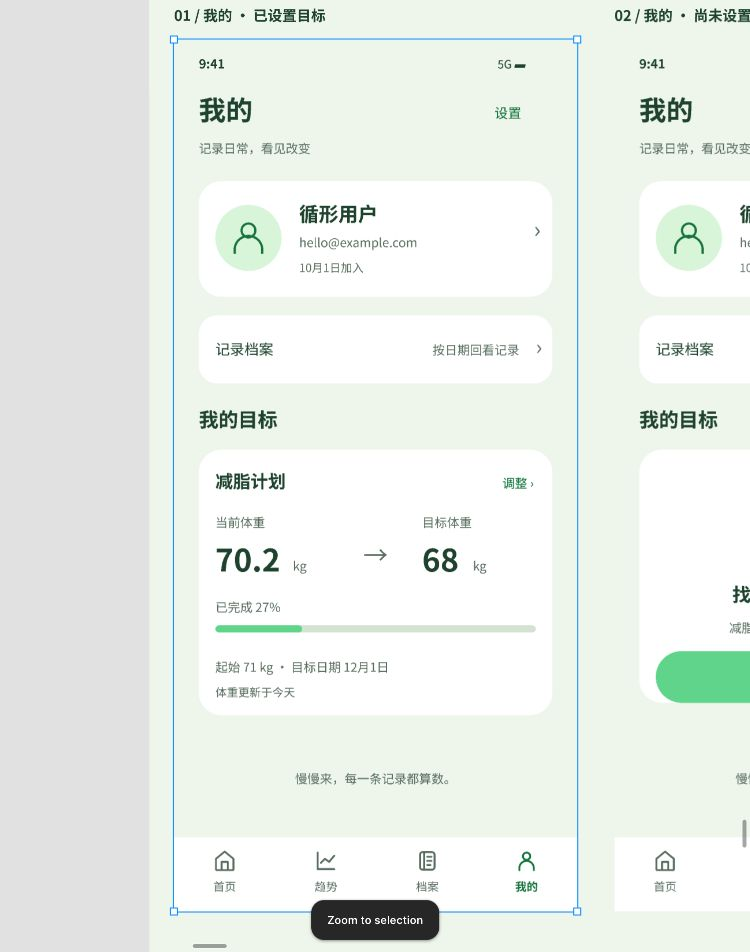
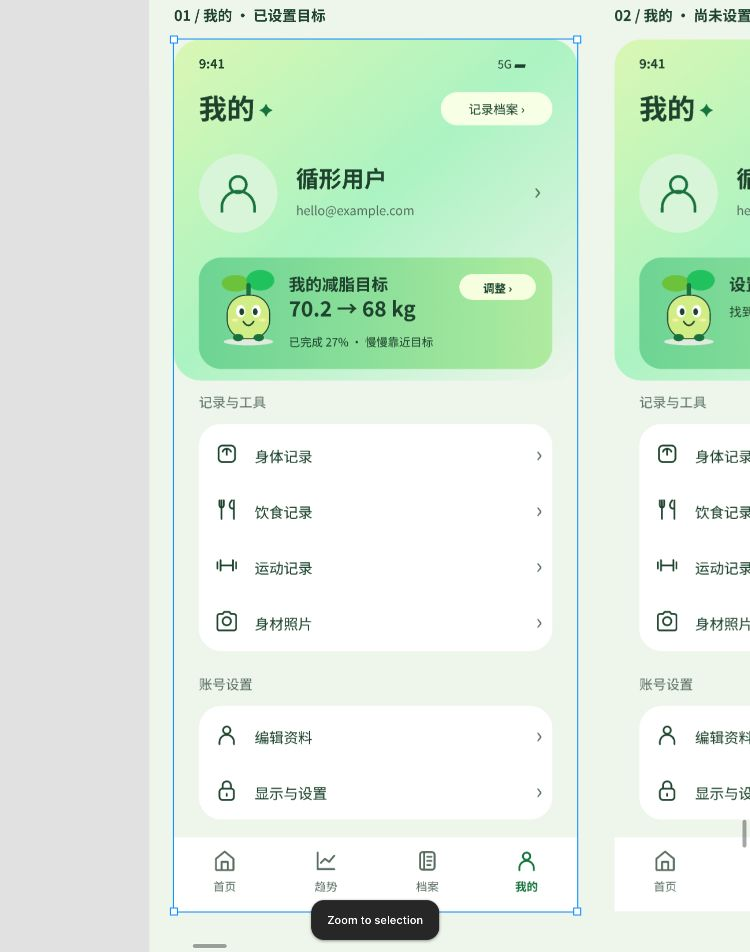
按 CalJimi 重排我的页面与设置分组设计

diff --git a/docs/design/CORE-DESIGN-PROGRESS.md b/docs/design/CORE-DESIGN-PROGRESS.md
@@ -4,12 +4,12 @@
 
 ## 我的、资料、目标与设置（2026-10-19）
 
-[35 / 我的 · 资料目标与设置完整状态](https://www.figma.com/design/Ct4AworB8fYBPjpSVwWbRW?node-id=196-5937) 已补齐 16 屏。沿用浅绿背景、白卡、柔和主按钮与 Noto Sans SC；底栏图标复用 H5 UiIcon 的原有矢量路径，二级页面隐藏底栏。
+[35 / 我的 · CalJimi 参考布局](https://www.figma.com/design/Ct4AworB8fYBPjpSVwWbRW?node-id=198-6654) 包含 16 屏。按用户要求重新参考 CalJimi 个人中心：顶部渐变、大头像与昵称、角色横幅、分组白卡和带图标的行入口。横幅适配为循形目标入口，记录与工具、账号设置、通用和关于分组组织现有功能；底栏继续使用 H5 UiIcon 原有路径，二级页隐藏底栏。
 
 | 画面 | 主要约定 |
 | --- | --- |
 | 我的：有目标、无目标 | 显示真实账号摘要，无目标时提供设置入口 |
-| 个人资料、编辑资料 | 查看邮箱与加入时间；编辑头像、昵称和性别 |
+| 我的下半屏、编辑资料 | 账号/通用/关于分组；头像区和编辑资料入口进入编辑，保留头像、昵称和性别 |
 | 目标编辑 | 减脂/增肌/保持、当前体重、目标体重、可选日期 |
 | 设置、显示模式 | 账号、安全、协议、关于、功能引导；跟随系统/浅色/深色 |
 | 昵称错误、保存中、保存失败 | 就地提示、阻止重复提交、保留表单并提供重试 |
@@ -19,9 +19,11 @@
 
 内容依据现有 H5 ProfileView、ProfileInfoView、AccountSettingsView、GoalSettingsView 与 SettingsView 整理。保持体重目标、缺失值与失败的业务口径。图中保存成功返回来源页并刷新摘要属于后续实现约定，尚未修改当前 H5 的导航。
 
-Figma MCP 额度限制仍存在，本批通过编辑器导入原生文字与矢量图层；没有用整屏位图作为设计图层。已检查全貌、资料编辑单屏、目标数字键盘和底栏图标；未建立自动布局、变量绑定与点击原型。图中数据为示例，没有调用真实账号、安装 APK 或部署。本轮没有修改 H5、Android 或 API。
+Figma MCP 额度限制仍存在，本批通过编辑器导入原生文字与矢量图层；没有用整屏位图作为设计图层。已检查改版后全貌和我的主页单屏；资料编辑、数字键盘及底栏图标沿用已核对画面；未建立自动布局、变量绑定与点击原型。图中数据为示例，没有调用真实账号、安装 APK 或部署。本轮没有修改 H5、Android 或 API。
 
 文件：[可编辑 SVG](fittrace-profile-green-2026-10-19.svg)、[16 屏总览](fittrace-profile-green-2026-10-19.png)、[我的单屏预览](fittrace-profile-main-2026-10-19.png)。
+
+参考证据：[CalJimi 我的主页（209）](https://uinotes.com/pin/488948447893600531)、[下半屏分组菜单（210）](https://uinotes.com/pin/722015924696485696)。本轮重排了我的上半屏、下半屏、无目标、加载、体重读取失败和设置分组；其他表单状态继续沿用。参考为截图观察，未操作 CalJimi 真实 App。
 
 ## 最新训练交互方向：参考 CalJimi（2026-10-19）
 
